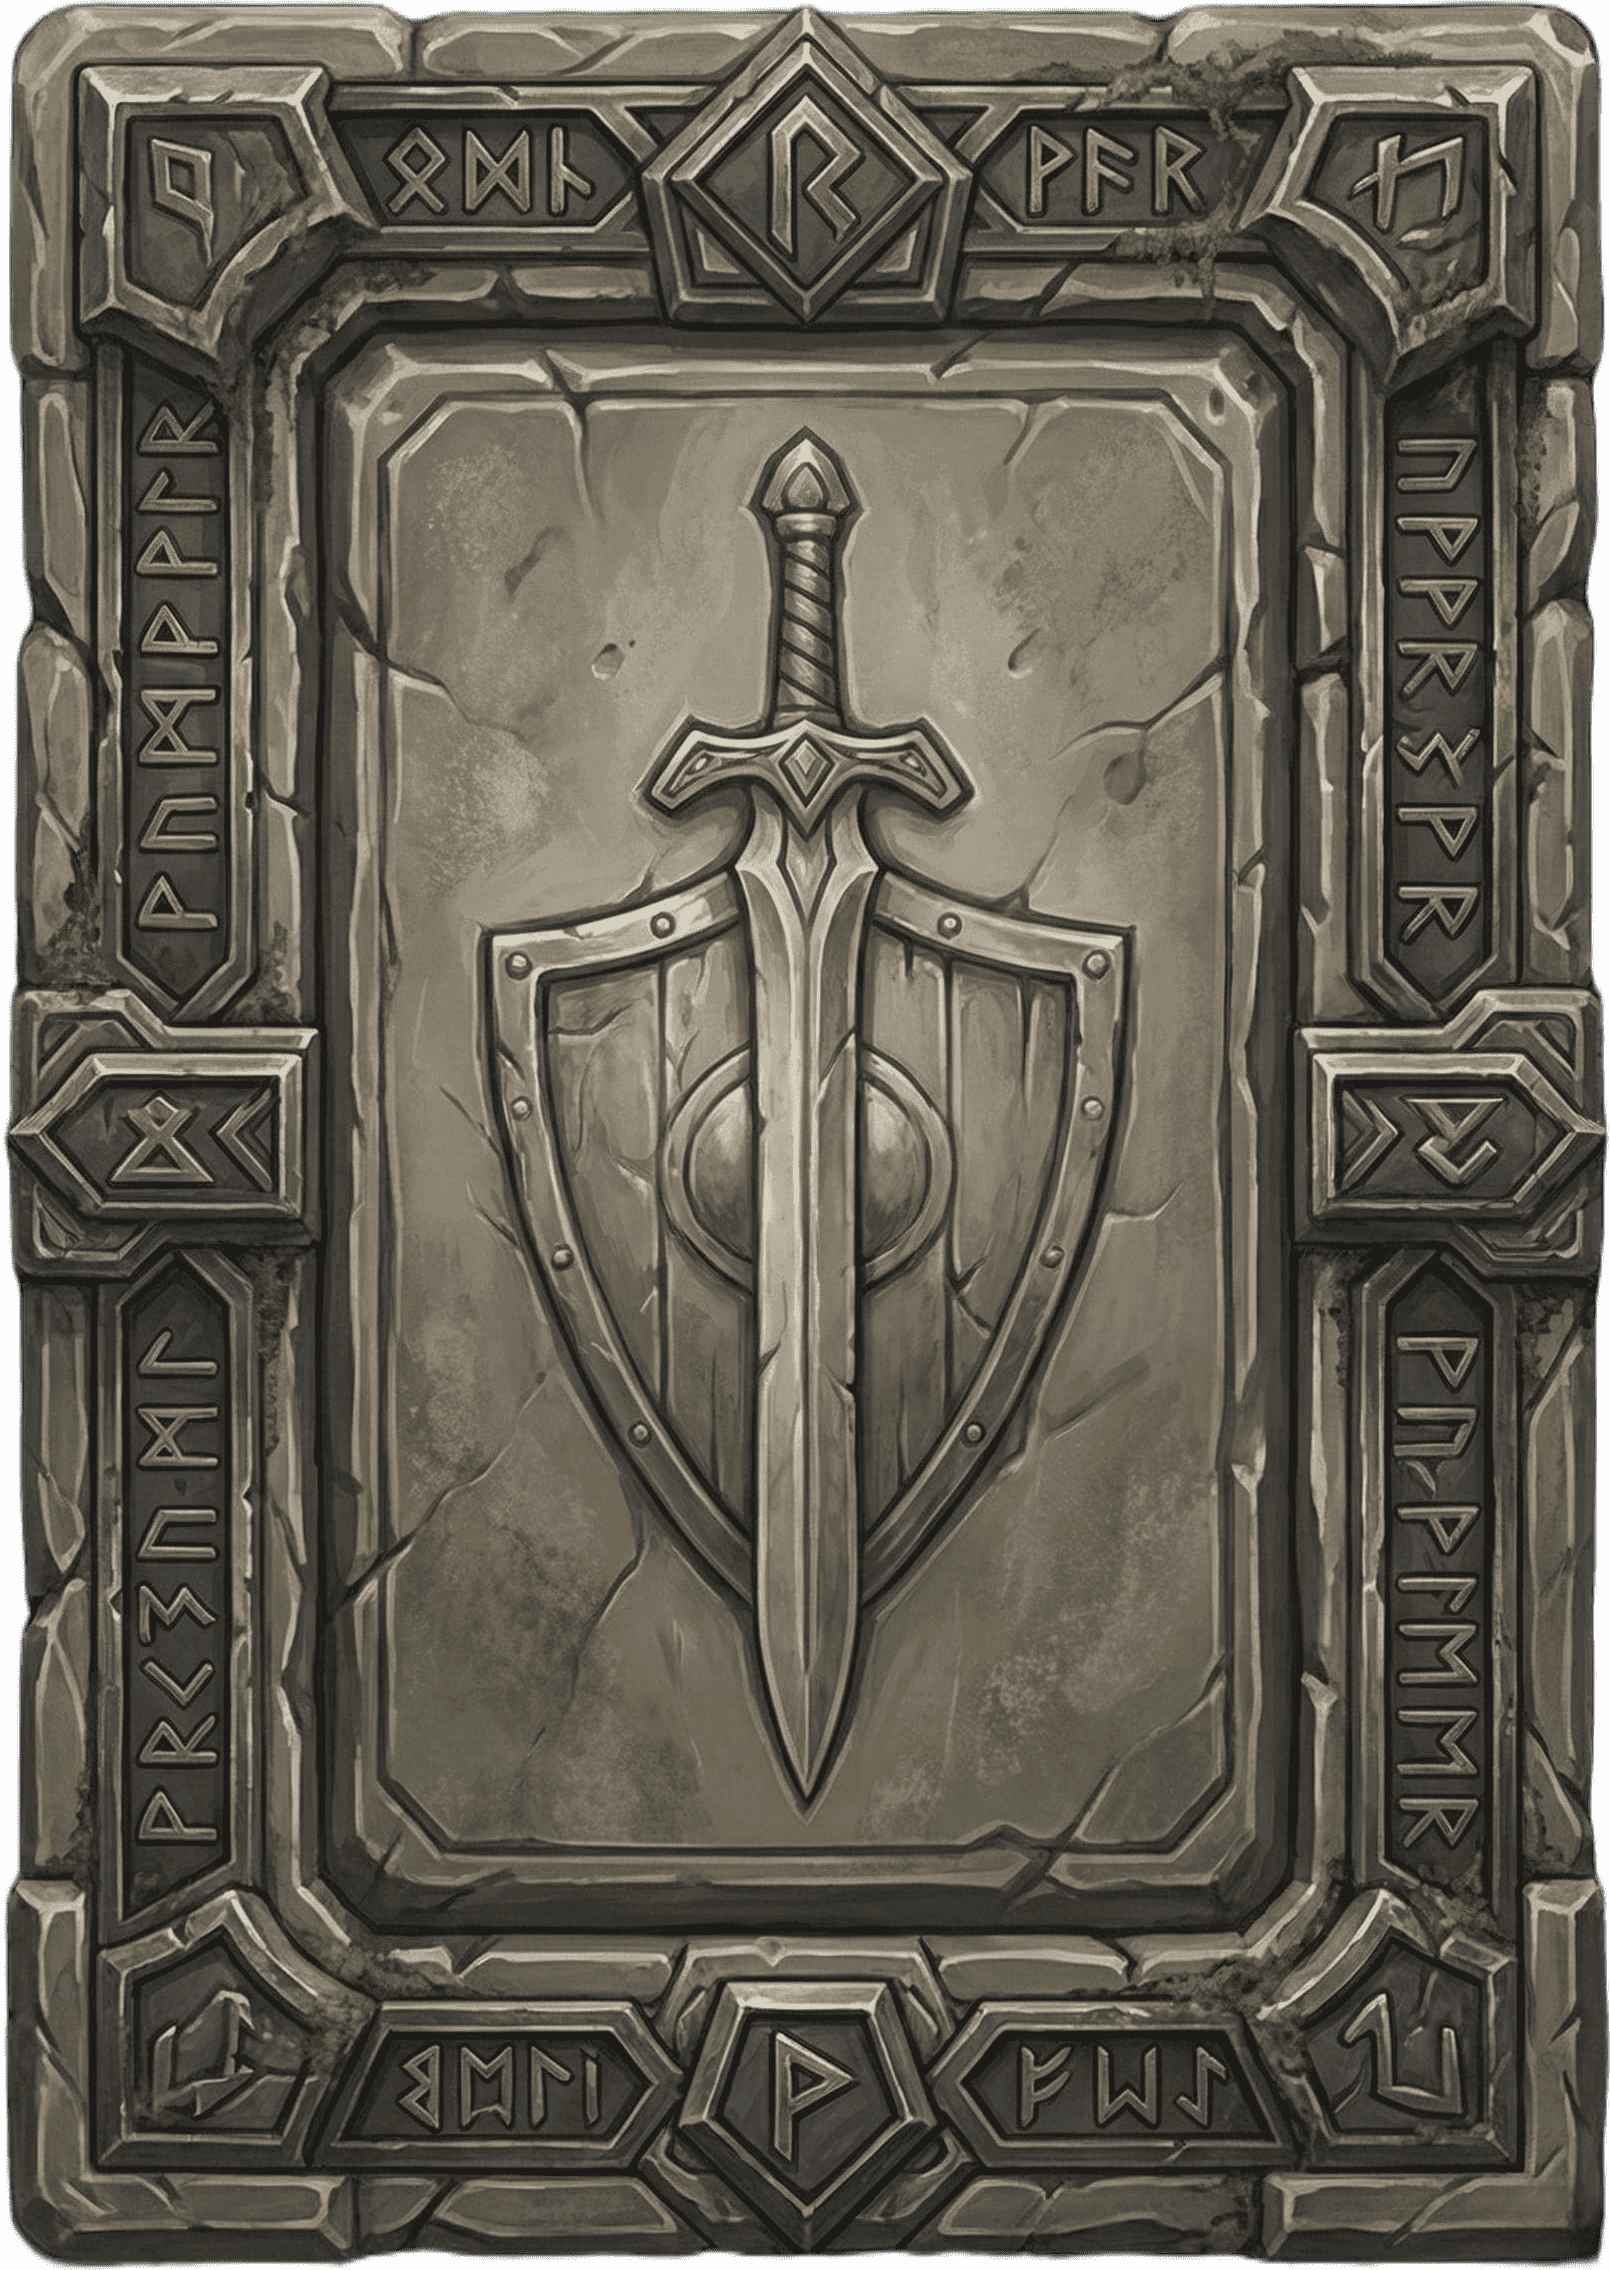
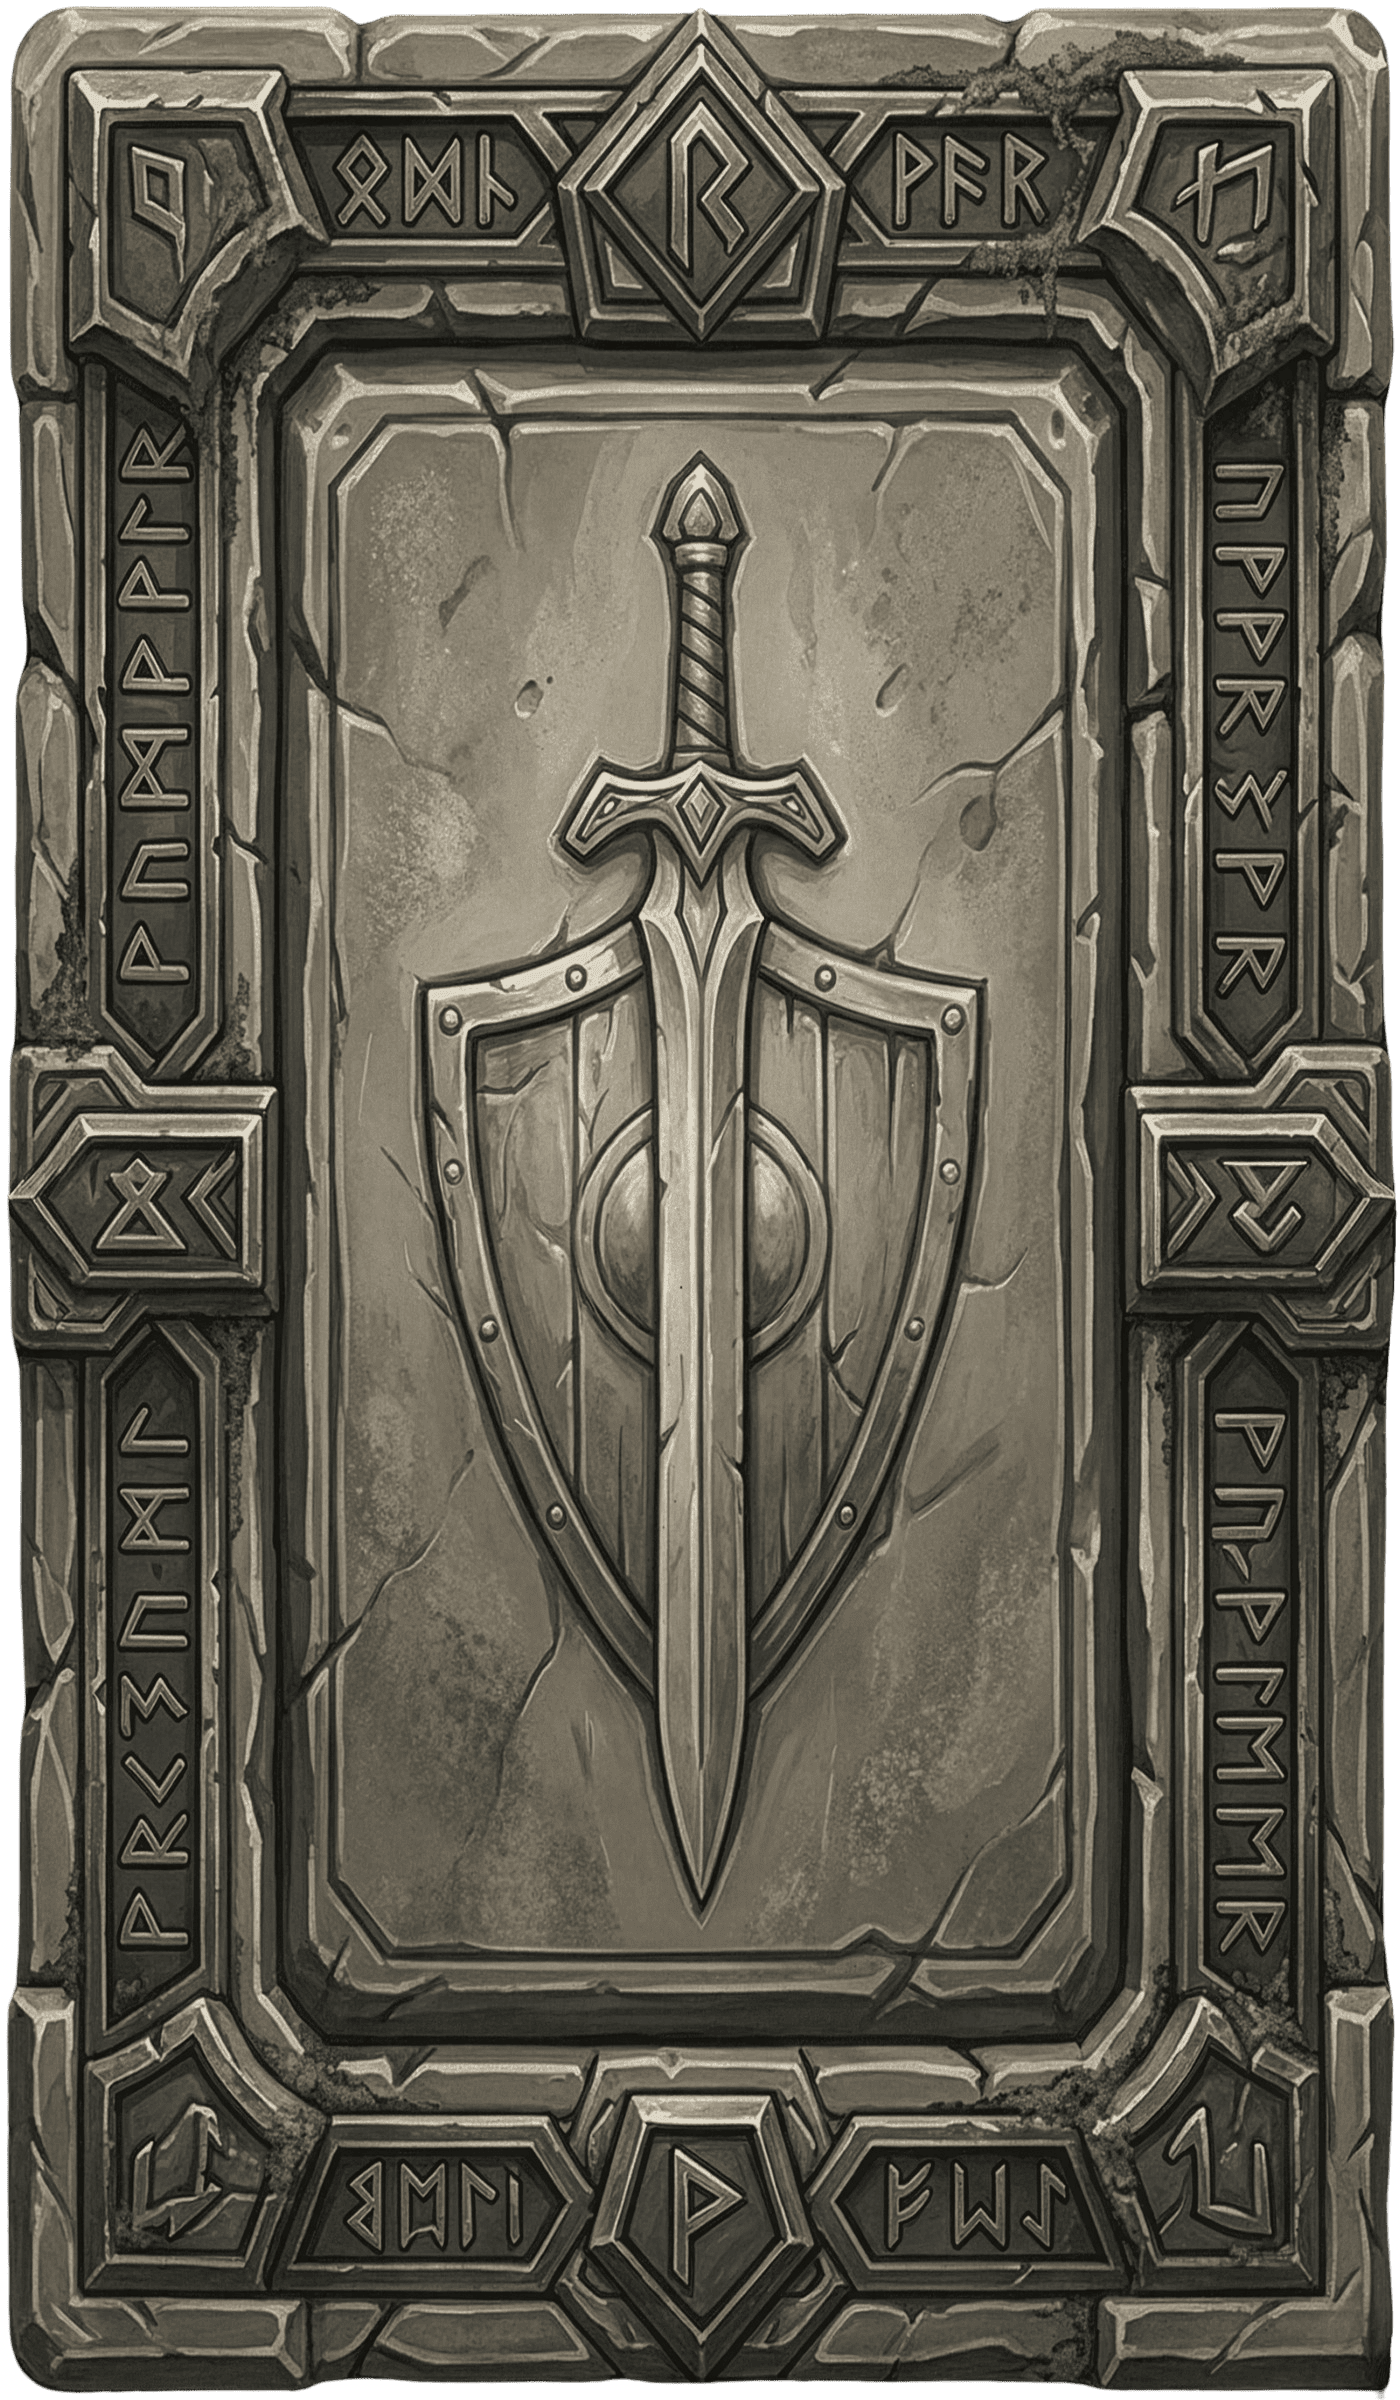
feat: Remove several card back presets and refactor `CardBack` component to render images via `<img>` tag.

diff --git a/src/components/CardRenderer/CardBack/CardBack.tsx b/src/components/CardRenderer/CardBack/CardBack.tsx
@@ -20,15 +20,20 @@ export const CardBack: React.FC<CardBackProps> = ({ visuals }) => {
       style={{ padding, borderRadius: outerRadius }}
     >
       <div
-        className="w-full h-full relative bg-cover bg-center overflow-hidden"
+        className="w-full h-full relative overflow-hidden"
         style={{
-          backgroundImage: visuals.backImage
-            ? `url(${visuals.backImage})`
-            : undefined,
-          backgroundColor: visuals.backImage ? undefined : "#E8D0A9",
+          backgroundColor: visuals.backImage ? undefined : "#000000",
           borderRadius: innerRadius,
         }}
       >
+        {visuals.backImage ? (
+          <img
+            src={visuals.backImage}
+            alt="Card back"
+            className="w-full h-full object-fill"
+            style={{ borderRadius: innerRadius }}
+          />
+        ) : null}
         {visuals.backTint && (
           <div
             className="absolute inset-0"

diff --git a/src/lib/cardConstants.ts b/src/lib/cardConstants.ts
@@ -84,21 +84,6 @@ export const PRINT_CONFIG = {
 
 export const CARD_BACK_PRESETS = [
   {
-    id: "arcane-tome",
-    name: "Arcane Tome",
-    src: "/card-backs/arcane-tome.png",
-  },
-  {
-    id: "dragon-scales",
-    name: "Dragon Scales",
-    src: "/card-backs/dragon-scales.png",
-  },
-  {
-    id: "celestial-void",
-    name: "Celestial Void",
-    src: "/card-backs/celestial-void.png",
-  },
-  {
     id: "shield-sword",
     name: "Shield & Sword",
     src: "/card-backs/shield-sword.png",
